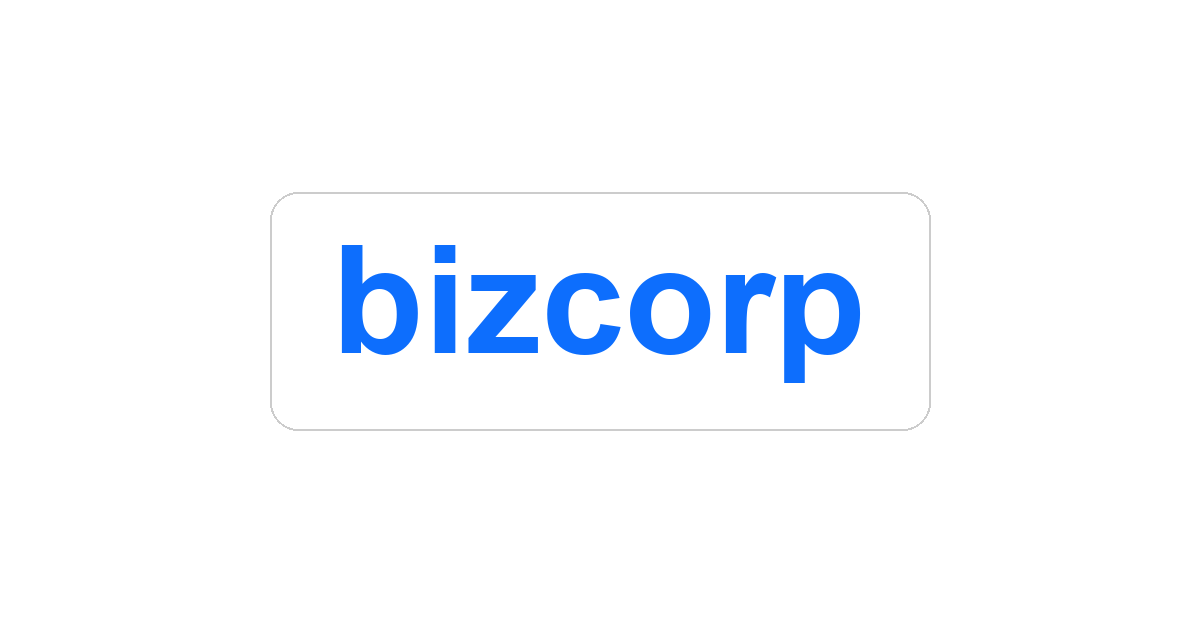
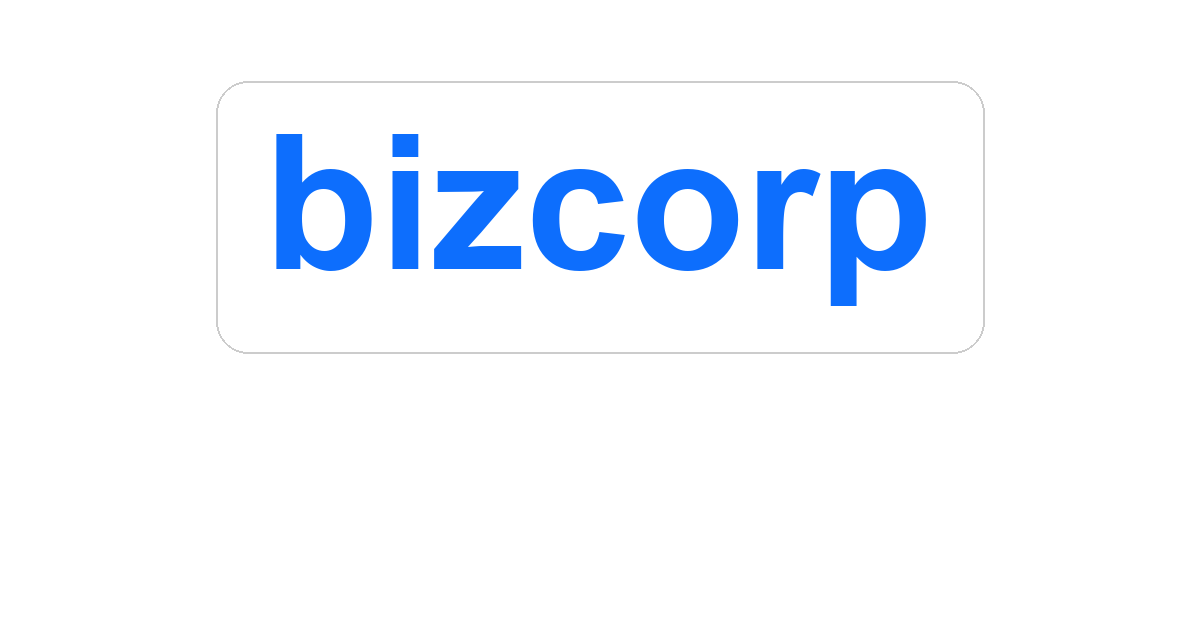
feat: larger og image, force linkedin rescrape v6

Changed region(s): [[0.2158, 0.2121, 0.8017, 0.6061], [0.185, 0.1212, 0.8017, 0.1515], [0.2467, 0.6667, 0.7708, 0.697]]

diff --git a/frontend/index.html b/frontend/index.html
@@ -10,7 +10,10 @@
       property="og:description"
       content="bizcorp — your last business tool"
     />
-    <meta property="og:image" content="https://www.wingshot.dev/og-image.png?v=5" />
+    <meta
+      property="og:image"
+      content="https://www.wingshot.dev/og-image.png?v=6"
+    />
     <meta property="og:url" content="https://www.wingshot.dev" />
     <meta property="og:type" content="website" />
     <link
